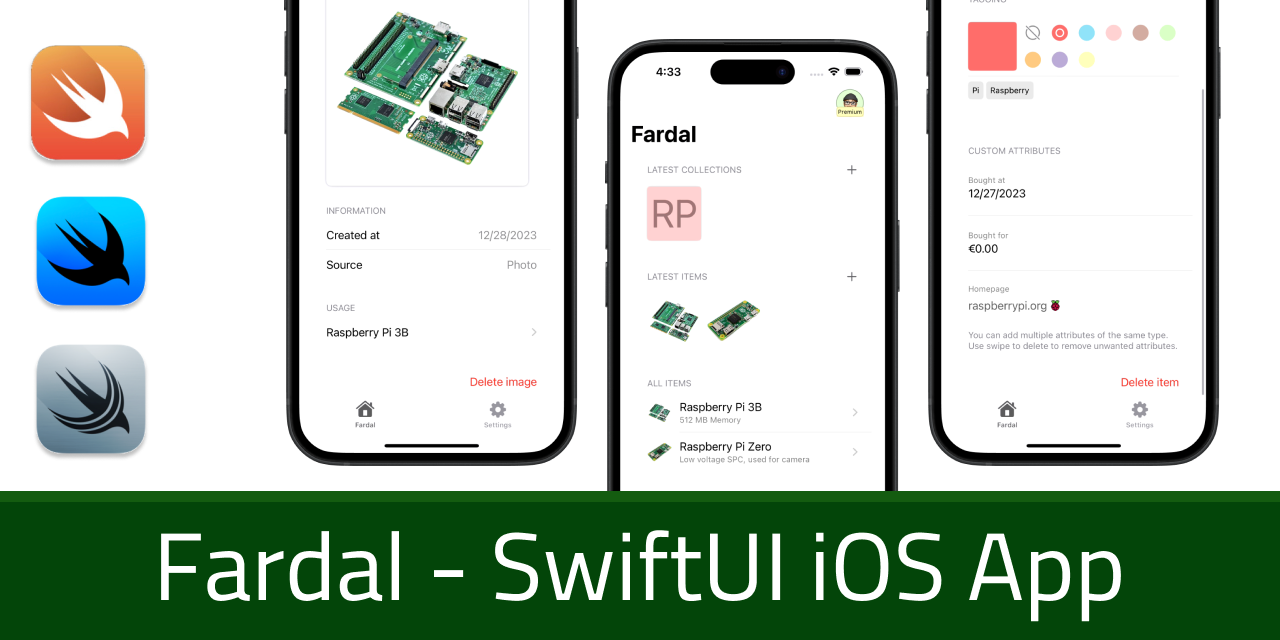
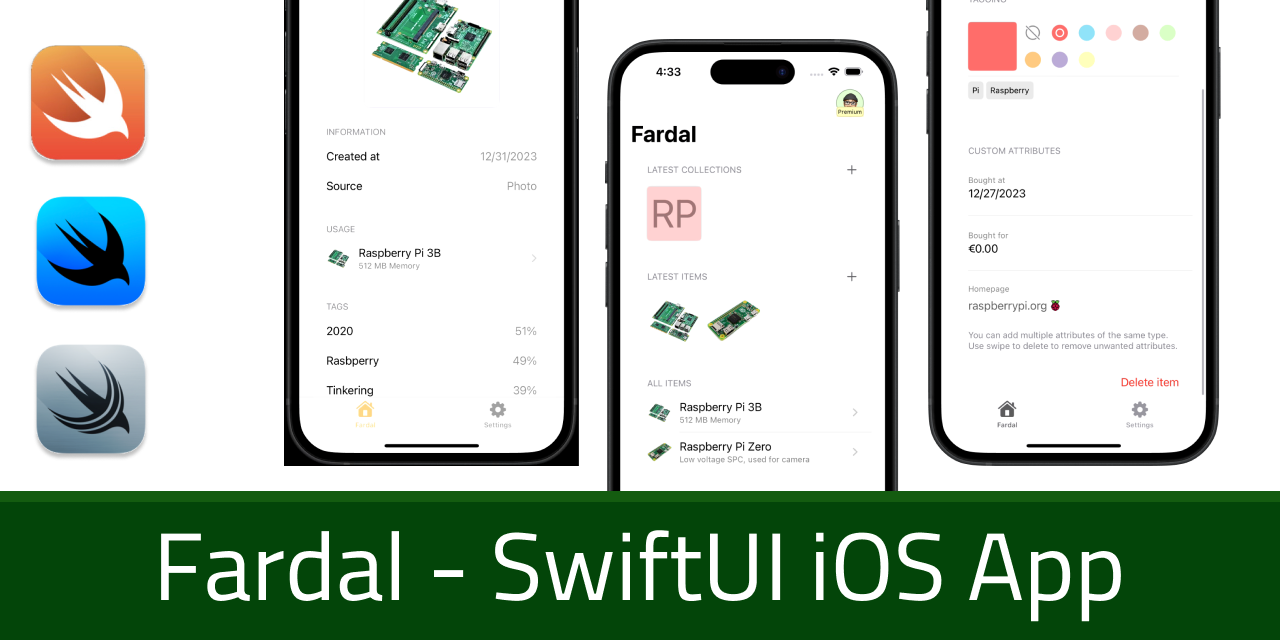
Adjusted mock generation and readme images

diff --git a/Fardal/Models/Collection/CollectionModel.swift b/Fardal/Models/Collection/CollectionModel.swift
@@ -52,7 +52,7 @@ extension CollectionModel {
     static func makeMockedCollections() async -> CollectionModel {
         // 1. Make images
         let images1: [ImageModel] = [
-            .mocked(forImage: .mockPiMicro, withTags: ["Zero", "Rasbperry", "Pi", "Tinkering", "2020"]),
+            .mocked(forImage: .mockPiMicro),
         ]
 
         let images2: [ImageModel] = [
@@ -69,27 +69,31 @@ extension CollectionModel {
         // 2. Make items
         let item1 = ItemModel(
             title: "Raspberry Pi Zero",
-            summary: "Low voltage SPC, used for camera",
-            imagesData: images1,
-            customAttributes: customAttributes1
+            summary: "Low voltage SPC, used for camera"
         )
+
+        item1.imagesData = images1
+        images1.forEach { $0.item = item1 }
+        item1.customAttributes = customAttributes1
 
         let item2 = ItemModel(
             title: "Raspberry Pi 3B",
-            summary: "512 MB Memory",
-            imagesData: images2
+            summary: "512 MB Memory"
         )
+        
+        item2.imagesData = images2
+        images2.forEach { $0.item = item2 }
 
         // 3. Make collection
-        let content = InitialAvatarView(name: "Raspberry Pis", dimension: 256)
-        let coverImageData = await ImageGenerator.fromContentToData(content: content)
-
         let collection = CollectionModel(
-            coverImageData: .init(data: coverImageData, source: .icon),
             title: "Raspberry Pis",
-            summary: "Container with Pis that date prior 2020",
-            items: [item1, item2]
+            summary: "Container with Pis that date prior 2020"
         )
+
+        let content = InitialAvatarView(name: collection.title, dimension: 256)
+        let coverImageData = await ImageGenerator.fromContentToData(content: content)
+        collection.coverImageData = .init(data: coverImageData, source: .icon)
+        collection.items = [item1, item2]
 
         // Returned mocked data
         return collection
